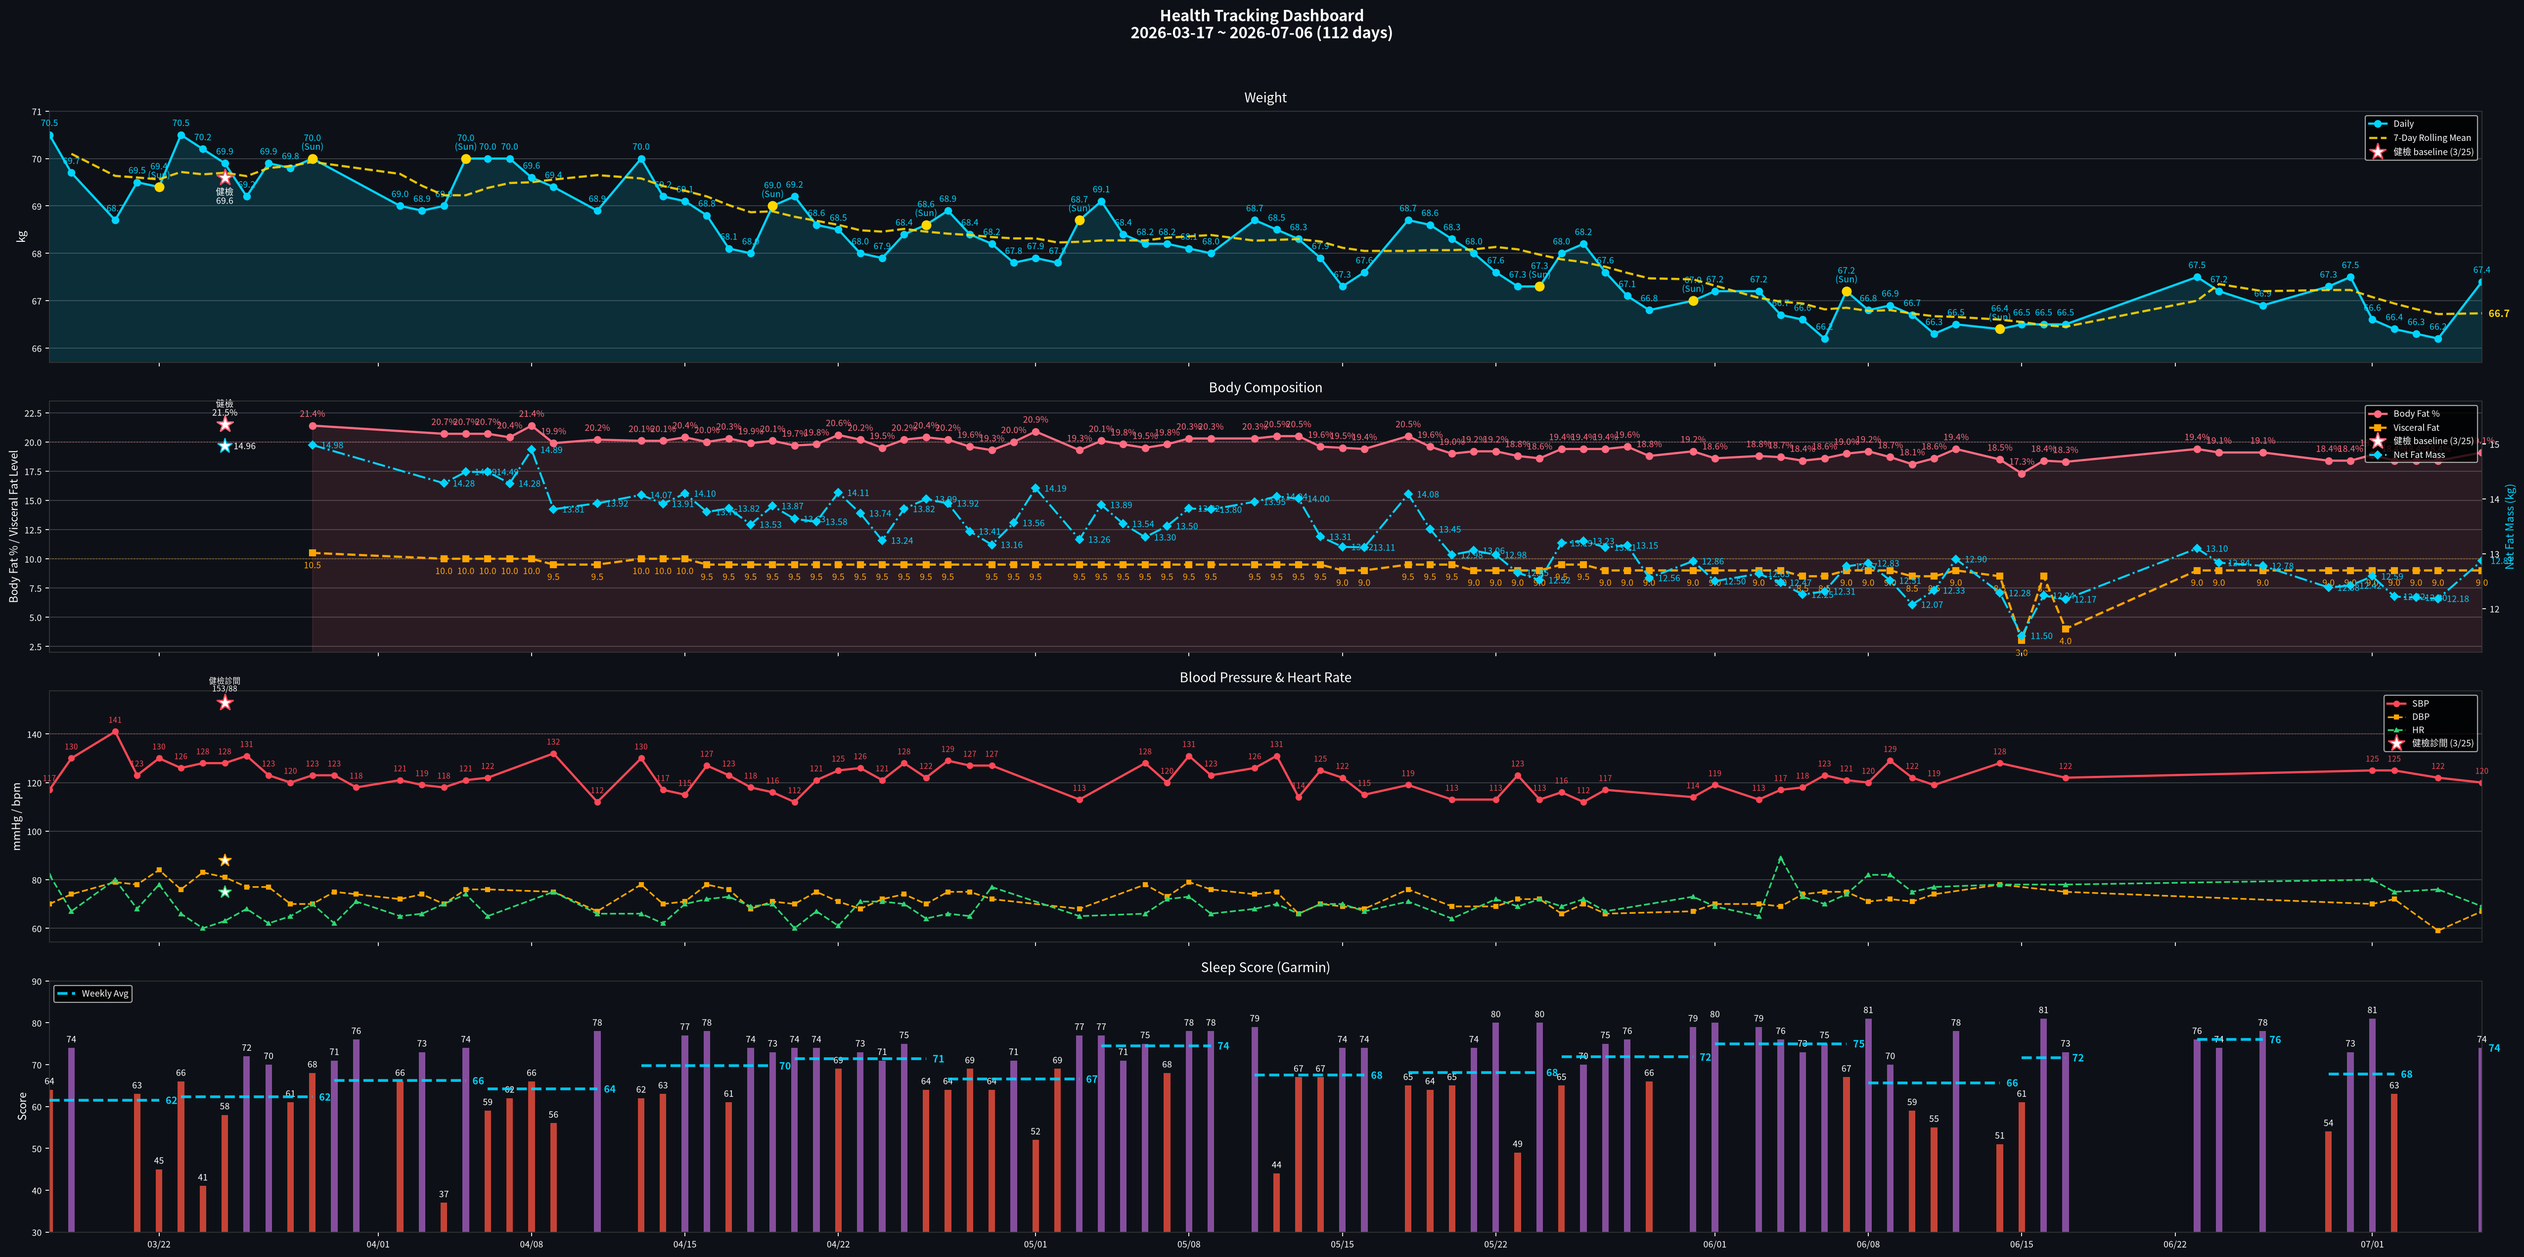
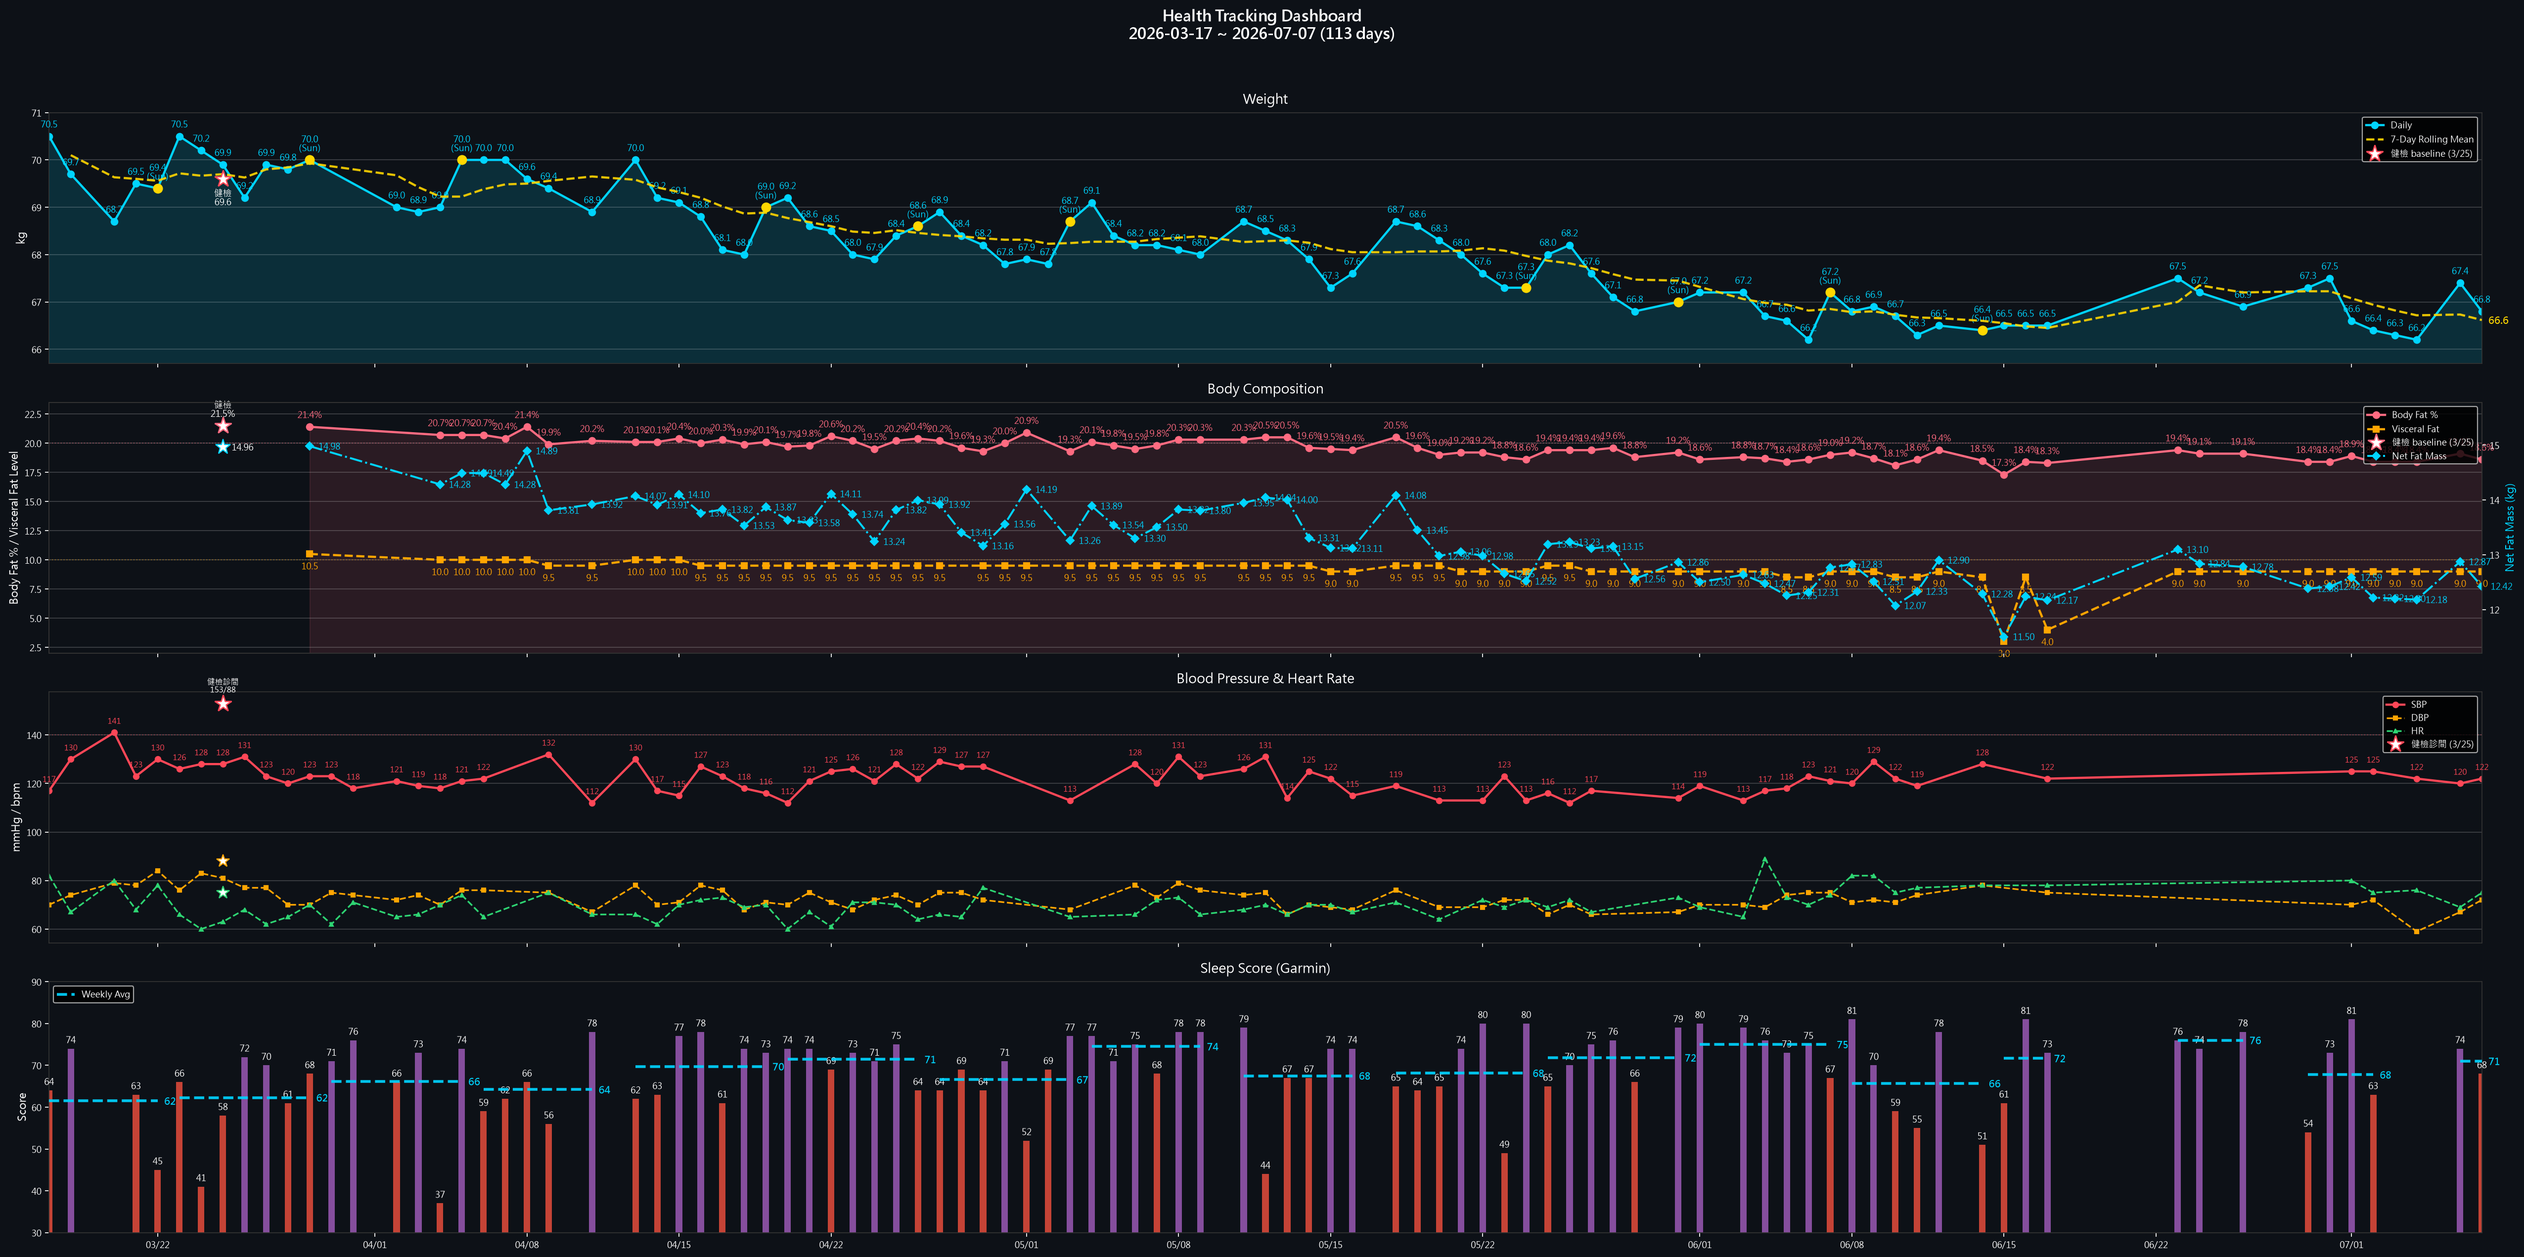
Daily check-in 2026-07-07：體重 66.8 / BP 122-72 / Sleep 68 + 早餐 smoothie 紀錄
Claude-Session: https://claude.ai/code/session_01JoDhftYDFcfZgaq11zTAZ5

diff --git a/data.js b/data.js
@@ -17,17 +17,17 @@ window.HC_DATA = {
     lede:    { en: "Sleep, BP, lipids, uric acid — one shared metabolic root. Lifestyle stacks first; medication only after lifestyle plateaus.",
                zh: "睡眠、血壓、血脂、尿酸——共享同一個代謝根源。生活方式介入優先，等到效果平台期再考慮藥物。" },
     progressLbl: { en: "Weight progress · 70 → 65 kg", zh: "體重進度 · 70 → 65 公斤" },
-    progressMeta: { en: "Day 112 · 66.2 kg · Sat official (7/4)", zh: "第 112 天 · 66.2 公斤 · 週六正式（7/4）" },
-    startDate: { en: "Start date · Mar 17, 2026 · Last sync 7/6", zh: "起始日期 · 2026 年 3 月 17 日 · 最後同步 7/6" },
+    progressMeta: { en: "Day 113 · 66.2 kg · Sat official (7/4)", zh: "第 113 天 · 66.2 公斤 · 週六正式（7/4）" },
+    startDate: { en: "Start date · Mar 17, 2026 · Last sync 7/7", zh: "起始日期 · 2026 年 3 月 17 日 · 最後同步 7/7" },
     startWeight: 70,
     targetWeight: 65,
     currentWeight: 66.2,
     currentWeightDate: "7/4 Sat official",
     // Body comp current actuals — latest daily reading (6/5). Manual for now:
     // sync_data_js.py does NOT yet populate these (only weight/BP/sleep). Update on daily check-in.
-    currentBodyFat: 19.1,
+    currentBodyFat: 18.6,
     currentVisceralFat: 9,
-    currentBodyCompDate: "7/6",
+    currentBodyCompDate: "7/7",
     // Waist = WHO midpoint (健檢-comparable; better VAT proxy than weight). Latest non-empty daily reading.
     currentWaist: 81,
     currentWaistDate: "7/6",
@@ -56,13 +56,13 @@ window.HC_DATA = {
     {
       sys: "heart", name: { en: "Blood Pressure", zh: "血壓" },
       val: "124/67", unit: "mmHg",
-      delta: { en: "W27 weekly avg (3 days) · target met (<130) · last 120/67 (7/6)", zh: "W27 週均（3 天）· 已達標 (<130) · 最新 120/67 (7/6)" },
+      delta: { en: "W27 weekly avg (3 days) · target met (<130) · last 122/72 (7/7)", zh: "W27 週均（3 天）· 已達標 (<130) · 最新 122/72 (7/7)" },
       cadence: { en: "Daily · weekly avg", zh: "每日 · 週均" },
       status: "ok",
     },
     {
       sys: "sleep", name: { en: "Sleep Score", zh: "睡眠分數" },
-      val: "74", unit: "Garmin",
+      val: "68", unit: "Garmin",
       delta: { en: "Sleep = behavioral/autonomic · OSA/hypoxia ruled out 6/29 (fingertip oximetry flat)", zh: "睡眠＝行為/自律神經 · OSA/缺氧已排除 6/29（指尖血氧整夜平穩）" },
       cadence: { en: "Daily · Garmin", zh: "每日 · Garmin" },
       status: "warn",
@@ -946,17 +946,17 @@ window.HC_DATA = {
   tracker: {
     // [SBP, DBP] — gaps filled with prior reading
     bp: [
-      [128,78], [128,78], [128,78], [122,75], [122,75], [122,75], [122,75], [122,75], [122,75], [125,70], [125,72], [125,72], [122,59], [120,67],
+      [122,75], [122,75], [122,75], [122,75], [122,75], [122,75], [122,75], [122,75], [125,70], [125,72], [125,72], [122,59], [120,67], [122,72],
     ],
     // daily weight (kg)
-    weight: [66.4, 66.5, 66.5, 66.5, 67.5, 67.2, 66.9, 67.3, 67.5, 66.6, 66.4, 66.3, 66.2, 67.4],
+    weight: [66.5, 66.5, 66.5, 67.5, 67.2, 66.9, 67.3, 67.5, 66.6, 66.4, 66.3, 66.2, 67.4, 66.8],
     // Garmin Sleep Score
-    sleep:  [51, 61, 81, 73, 76, 74, 78, 54, 73, 81, 63, 63, 63, 74],
+    sleep:  [61, 81, 73, 76, 74, 78, 54, 73, 81, 63, 63, 63, 74, 68],
     // Body Battery waking
-    bb:     [22, 27, 32, 35, 37, 40, 48, 45, 56, 66, 53, 53, 53, 48],
+    bb:     [27, 32, 35, 37, 40, 48, 45, 56, 66, 53, 53, 53, 48, 55],
     // SpO2 nightly nadir % (last 14 days, parallel to bp/weight/sleep/bb).
     // Earlier nights null until sync_data_js.py backfills; banner only uses trailing values.
-    spo2Nadir: [null, 88, 86, 85, 94, 81, 93, 87, null, null, null, null, null, null],
+    spo2Nadir: [88, 86, 85, 94, 81, 93, 87, null, null, null, null, null, null, null],
   },
 
   // ===== Running — started 2026-04-26 =====

diff --git a/reviews/food/2026-07-07.md b/reviews/food/2026-07-07.md
@@ -1,0 +1,102 @@
+# 飲食紀錄 — 2026-07-07
+
+**每日目標**（減重期 1,800 kcal / 體重 68 kg）：蛋白質 95 g ｜ 脂肪 50–65 g ｜ 碳水 225–250 g ｜ 纖維 ≥25 g ｜ 鈉 <1,500 mg ｜ 水 2.5–3.0 L
+
+---
+
+## 早餐（目標 350–400 kcal / 30–32 g 蛋白質）
+
+*芒果巴西莓酪梨優格飲（芒果香、口感不錯）*
+
+| 品項 | 份量 | 熱量 (kcal) | 蛋白質 (g) | 脂肪 (g) | 碳水 (g) | 膳食纖維 (g) | 鈉 (mg) | 鉀 (mg) |
+|------|------|-------------|------------|----------|----------|--------------|---------|---------|
+| 芒果 | 80 g | 48 | 0.7 | 0.3 | 12.0 | 1.3 | 1 | 134 |
+| 酪梨 | 40 g | 64 | 0.8 | 5.9 | 3.4 | 2.7 | 3 | 194 |
+| 低脂鮮奶 | 200 g | 84 | 6.8 | 2.0 | 9.8 | 0 | 88 | 300 |
+| 無糖優格 | 150 g | 95 | 8.0 | 2.3 | 10.5 | 0 | 75 | 233 |
+| 巴西莓粉 | 3 g | 16 | 0.2 | 1.1 | 1.3 | 1.0 | 1 | 27 |
+| **小計** | | **307** | **16.5** | **11.6** | **37.0** | **5.0** | **168** | **888** |
+
+---
+
+## 午餐（目標 450–550 kcal / 30–32 g 蛋白質）
+
+| 品項 | 份量 | 熱量 (kcal) | 蛋白質 (g) | 脂肪 (g) | 碳水 (g) | 膳食纖維 (g) | 鈉 (mg) | 鉀 (mg) |
+|------|------|-------------|------------|----------|----------|--------------|---------|---------|
+| 沙拉（半份，記錄蔬菜種類）| | | | | | | | |
+| | | | | | | | | |
+| **小計** | | | | | | | | |
+
+> 🥗 醬料：橄欖油 + 巴薩米克/紅酒醋（避千島、凱撒）— 醋酸降餐後血糖（⭐⭐⭐ RCT），油醋助脂溶性植化素吸收。詳見 `articles/diet-nutrition/2026-05-26-vinegar-evidence-note.md`
+
+---
+
+## 晚餐（目標 450–550 kcal / 30–32 g 蛋白質）
+
+| 品項 | 份量 | 熱量 (kcal) | 蛋白質 (g) | 脂肪 (g) | 碳水 (g) | 膳食纖維 (g) | 鈉 (mg) | 鉀 (mg) |
+|------|------|-------------|------------|----------|----------|--------------|---------|---------|
+| | | | | | | | | |
+| **小計** | | | | | | | | |
+
+---
+
+## 點心 / 其他
+
+| 品項 | 份量 | 熱量 (kcal) | 蛋白質 (g) | 脂肪 (g) | 碳水 (g) | 膳食纖維 (g) | 鈉 (mg) | 鉀 (mg) |
+|------|------|-------------|------------|----------|----------|--------------|---------|---------|
+| Psyllium husk（每日固定，餐前 30 分 + 500 mL 水）| 1 Tbsp | 20 | 0.5 | 0.1 | 5.0 | 5.0 | 0 | 0 |
+| | | | | | | | | |
+| **小計** | | | | | | | | |
+
+---
+
+## 每日總計 vs 目標
+
+| | 熱量 (kcal) | 蛋白質 (g) | 脂肪 (g) | 碳水 (g) | 膳食纖維 (g) | 鈉 (mg) | 鉀 (mg) | Na/K |
+|--|-------------|------------|----------|----------|--------------|---------|---------|------|
+| **合計** | | | | | | | | |
+| **目標** | 1,800 | 95 | 50–65 | 225–250 | ≥25 | <1,500 | ≥3,500 | <0.6 |
+| **差距** | | | | | | | | |
+| **佔比** | 100% | % | % | % | — | — | — | — |
+
+**Na/K 比值判讀（你高 BP + OSA 體質）**：
+- < 0.5 ✅ 理想（INTERSALT 1988 與最低 BP 相關）
+- 0.5-0.6 🟢 良好
+- 0.6-0.8 🟡 邊緣
+- > 0.8 🟠 警示（鈉相對鉀過高 → BP 上升風險、夜間水腫加劇 OSA）
+
+---
+
+## 補充品（不計熱量）
+
+- [ ] 早：Vitamin D3 3000 IU + K2 MK-7 100 mcg（需 ≥5 g 脂肪同攝）、L-Citrulline 2 g
+- [ ] 午：—
+- [ ] 晚：Omega-3 魚油 rTG ×2（晚餐後、高脂餐吸收最佳；EGCG 膠囊已於 2026-04-21 取消）
+- [ ] 睡前：Chelated Magnesium 400 mg（睡前 1-2 小時）、酸櫻桃 500 mg
+
+## 水分（目標 2.5–3.0 L，17:00 前完成主補水）
+
+- [ ] 晨起 300–400 mL 溫水
+- [ ] 上午拿鐵 1 杯
+- [ ] 午前/午後各 500 mL
+- [ ] 洛神花茶 ×2 杯（~9:30 早餐後 1 杯 + 14:00-14:30 午後 1 杯，各 240 mL；家中 BP < 110/70 時減為 1 杯）
+- [ ] 17:00 後僅補水至口渴解除
+
+---
+
+## 腸道健康（gut–microbiome）
+
+- **今日不同植物種類數**：3 種（芒果、酪梨、巴西莓）
+- **本週累計**：___ / 30 種 🎯（ZOE/American Gut：每週 30 種植物與菌相多樣性相關）
+- **發酵食**：[x] 優格 [ ] 納豆 [ ] 泡菜 [ ] 味噌 [ ] 其他 ___（菌株多樣性，勿只靠優格）
+- 重點：psyllium 補「纖維克數」與降 LDL；植物廣度補「菌相多樣性」— 兩者不可互相取代。
+
+---
+
+## 觀察
+
+- 早餐 smoothie：307 kcal / 蛋白 16.5g / 纖維 5.0g / Na-K 0.19 ✅（極佳）。芒果香明顯、口感不錯。巴西莓 3g 提供花青素與少量纖維。蛋白低於早餐目標 30g，午餐需補足蛋白（雞胸/豆腐/蛋 ~30g）；鉀 888 mg 開局良好，對 BP 友善。
+
+---
+
+*Filed: reviews/food/2026-07-07.md*

diff --git a/reviews/daily/2026-07-07.md b/reviews/daily/2026-07-07.md
@@ -1,0 +1,83 @@
+# 晨間健康紀錄 — 2026-07-07
+
+*3 分鐘。起床後立即完成。記錄，不分析。*
+
+---
+
+## 體重 / 體組成
+
+**今日：66.8 kg**
+**體脂率：18.6 %**
+**內臟脂肪等級：9.0**
+**腰圍 (WHO midpoint)： cm**
+**腰圍 (最大腹圍)： cm**
+
+**軀幹脂肪（輝葉八電極，主 KPI）： kg（ %）**
+**除脂體重 LBM（護欄）： kg**
+
+*每週六早晨為正式體重紀錄。其他日可選填。*
+
+---
+
+## 血壓（晨間）
+
+*連量兩次取第二次。*
+
+| 次數 | 收縮壓 | 舒張壓 | 心率 |
+|------|--------|--------|------|
+| 第一次 | | | |
+| 第二次 | 122 | 72 | 75 |
+
+---
+
+## 睡眠狀態
+
+**Garmin 偵測入睡：** 21:37
+**實際起床：** 05:34
+**總時長：** 7h 6m（深眠 100 分／REM 89 分）
+**中途醒來：** 無
+**Garmin Sleep Score：** 68 / 100
+**Garmin Body Battery 起床值：** 55
+**主觀恢復感：** 3 / 5
+
+### SpO2 夜間數值（僅參考 — OSA 篩檢已撤回 2026-06-29）
+
+> ⚠ 腕式 SpO2 掉氧為動作 artifact，不作 OSA 判讀、不觸發紅旗。
+
+**今晨最低 SpO2：** 86%（參考）
+**今晨日均 SpO2：** 95%
+
+*Sleep Score < 65 或 Body Battery < 50 連續三天 → 重新檢視睡眠修復方案。*
+
+---
+
+## 昨日回顧
+
+**實際飲水量：** 1.2 L ⚠（< 2.0L，UA 排泄效率警示；連兩日 < 2.0L，本週重點關注）
+**昨日活動消耗：** 267 kcal（cycling 7.4 min + walking 37.5 min，含 BMR；100–300 區間，正常）
+**昨日 Na / K / Na-K ratio：** —（無 food 紀錄）
+**昨日 RHR：** 58 bpm｜**今晨 RHR：** 60 bpm（+2，穩定）
+**昨日步數：** 12,552 ✅
+
+---
+
+## 身體信號
+
+| 部位 | 性質 | 強度 (0-10) |
+|------|------|-------------|
+| — | 清 | 0 |
+
+---
+
+## 今日計畫速記
+
+- [ ] 飲水目標：2.5 L（錨點 09:30 ≥1.0L / 13:30 ≥2.0L / 17:00 截止 2.5L）— 連兩日 < 2.0L，今日務必補回
+- [ ] 補充品（核心）：D3+K2+Citrulline 早餐；Psyllium 午晚餐前；魚油晚餐後；鎂+酸櫻桃+Glycine 睡前
+- [ ] 運動（17:00 固定）：依常規安排
+- [ ] 活動度/伸展（09:30 + 20:30 兩次錨點）
+- [ ] Wind-down（20:00 燈光降 + 螢幕濾鏡，液體截止）
+- [ ] 上床 21:30 / 熄燈 22:00（TST 目標 7h+）
+
+---
+
+*Filed: reviews/daily/2026-07-07.md*

diff --git a/reviews/weekly/2026-W28.md b/reviews/weekly/2026-W28.md
@@ -30,9 +30,9 @@
 
 |  | 一 | 二 | 三 | 四 | 五 | 六 | 日 |
 |--|----|----|----|----|----|----|-----|
-| 體重 (kg) | 67.4 | | | | | | |
-| 體脂率 (%) | 19.1 | | | | | | |
-| 內臟脂肪 | 9.0 | | | | | | |
+| 體重 (kg) | 67.4 | 66.8 | | | | | |
+| 體脂率 (%) | 19.1 | 18.6 | | | | | |
+| 內臟脂肪 | 9.0 | 9.0 | | | | | |
 | **腰圍 WHO (cm)** | 81 | | | | | | |
 | **腰圍 max (cm)** | | | | | | | |
 
@@ -45,7 +45,7 @@
 | 日期 | 收縮壓 | 舒張壓 | 心率 |
 |------|--------|--------|------|
 | 07-06 (一) | 120 | 67 | 69 |
-| 07-07 (二) | | | |
+| 07-07 (二) | 122 | 72 | 75 |
 | 07-08 (三) | | | |
 | 07-09 (四) | | | |
 | 07-10 (五) | | | |
@@ -61,7 +61,7 @@
 | 日期 | 就寢 | 起床 | 中途醒 | Sleep Score | Body Battery | 主觀恢復 |
 |------|------|------|--------|-------------|--------------|----------|
 | 07-06 (一) | 22:35 | 04:29 | 無 | 74 | 48 | 4 |
-| 07-07 (二) | | | | | | |
+| 07-07 (二) | 21:37 | 05:34 | 無 | 68 | 55 | 3 |
 | 07-08 (三) | | | | | | |
 | 07-09 (四) | | | | | | |
 | 07-10 (五) | | | | | | |
@@ -76,7 +76,7 @@
 
 | 信號（部位+性質） | 出現天數 | 平均強度 | 趨勢（↑↓→） | 備註 |
 |-------------------|----------|----------|-------------|------|
-| （清） | — | — | — | 週一清 |
+| （清） | — | — | — | 週一、週二清 |
 
 **反覆出現（≥ 3 天）：** 無
 
@@ -89,6 +89,7 @@
 | 日期 | 運動內容（含組數/時間） |
 |------|------------------------|
 | 07-06 (一) | 依常規（17:00） |
+| 07-07 (二) | 依常規（17:00） |
 
 ---
 

diff --git a/reports/daily-garmin/2026-07-06.md b/reports/daily-garmin/2026-07-06.md
@@ -6,28 +6,31 @@
 - 深眠：105 分｜REM：47 分
 - Sleep Score：74
 - Body Battery 起床值：48
+- 估算上床：22:30｜入睡 latency：6 分
 
 ## 靜息心率
 - RHR：58.0 bpm
 
 ## 壓力
-- 日均：24
+- 日均：30
 
 ## 步數
-- 總計：3,005
+- 總計：12,552
 
 ## SpO2
-- 日均：95.0%
+- 日均：96.0%
 - 最低：85%
 
 ## 活動
 | 時段 | 類型 | 距離 | 時長 | 平均 HR | 最大 HR | 主動 kcal | 含 BMR |
 |------|------|------|------|---------|---------|-----------|--------|
 | 09:28 | cycling | 1.12 km | 7.4 min | 147 | 160 | 62 | 72 |
+| 12:23 | walking | 2.45 km | 37.5 min | 110 | 129 | 145 | 195 |
+| **小計** | 2 段 | **3.57 km** | **44.9 min** | — | — | **207** | **267** |
 
 ## 飲水
-- 實際：0.00 L
-- 目標：2.12 L
-- 運動流汗耗水：0.12 L
+- 實際：1.20 L
+- 目標：2.67 L
+- 運動流汗耗水：0.67 L
 
 _Source: data/garmin/2026-07-06.json (gitignored)_

diff --git a/reports/daily-garmin/2026-07-07.md b/reports/daily-garmin/2026-07-07.md
@@ -1,0 +1,33 @@
+# Garmin 每日摘要 — 2026-07-07
+
+## 睡眠
+- 就寢：21:37｜起床：05:34
+- 總時長：7h 6m
+- 深眠：100 分｜REM：89 分
+- Sleep Score：68
+- Body Battery 起床值：55
+
+## 靜息心率
+- RHR：60.0 bpm
+
+## 壓力
+- 日均：24
+
+## 步數
+- 總計：2,571
+
+## SpO2
+- 日均：95.0%
+- 最低：86%
+
+## 活動
+| 時段 | 類型 | 距離 | 時長 | 平均 HR | 最大 HR | 主動 kcal | 含 BMR |
+|------|------|------|------|---------|---------|-----------|--------|
+| 09:28 | cycling | 1.15 km | 6.1 min | 144 | 160 | 49 | 57 |
+
+## 飲水
+- 實際：0.00 L
+- 目標：2.10 L
+- 運動流汗耗水：0.10 L
+
+_Source: data/garmin/2026-07-07.json (gitignored)_
